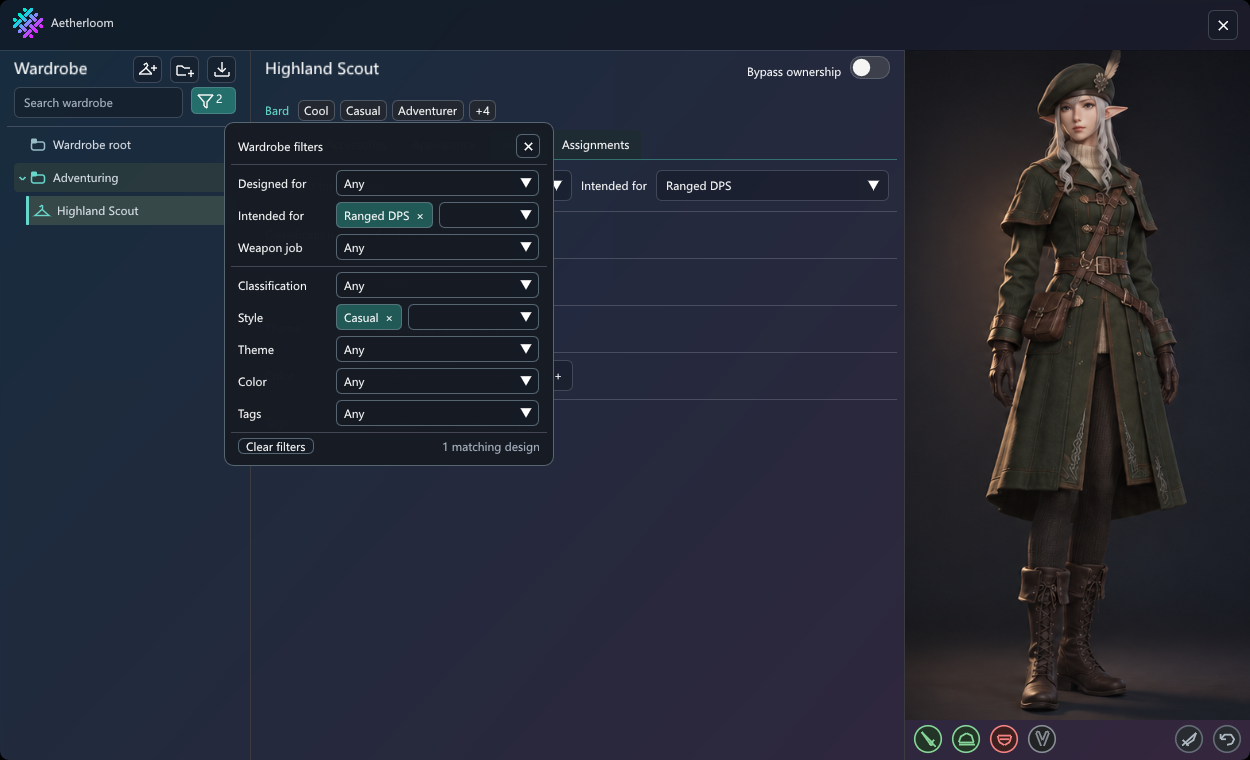
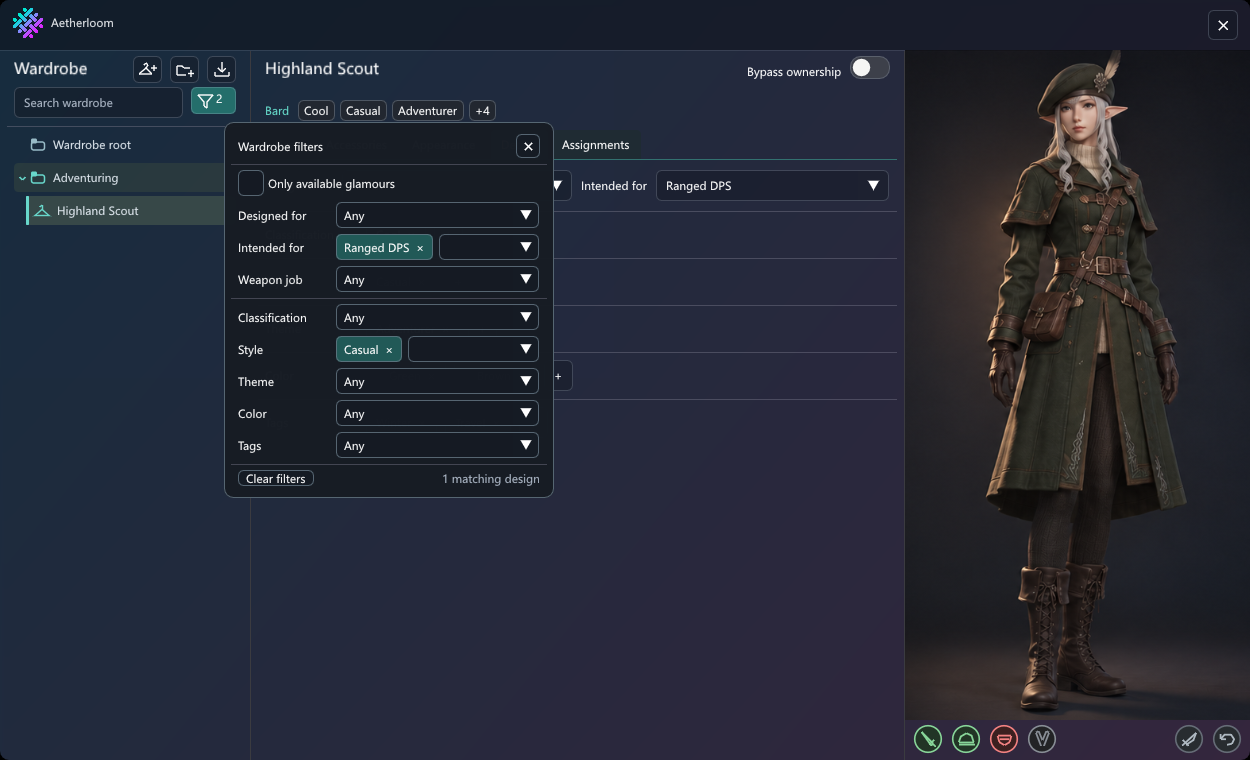
Preview and exercise the scrolling wardrobe library

diff --git a/WardrobePreview/Program.cs b/WardrobePreview/Program.cs
@@ -31,6 +31,7 @@ internal sealed class RenderForm(string? scene,string? output):Form
         io.Fonts.AddFontFromFileTTF(Path.Combine(Environment.GetFolderPath(Environment.SpecialFolder.Fonts),"segoeui.ttf"),16);
         surface=new GlSurface(Handle);
         fixture=new WardrobeFixture(LoadReference);
+        if(scene=="scroll-library")fixture.FillLibrary();
         if(scene=="dye-neutral"){fixture.SetDye("Body",0,0);fixture.FavoriteDyes.Clear();}
         layout=new(fixture);fixture.Layout=layout;layout.ConfigureScene(scene);
         timer.Tick+=(_,_)=>Invalidate();timer.Start();
@@ -47,14 +48,24 @@ internal sealed class RenderForm(string? scene,string? output):Form
     {
         if(surface==null||layout==null)return;
         var io=ImGui.GetIO();io.DisplaySize=new(ClientSize.Width,ClientSize.Height);io.DeltaTime=.025f;
+        if(scene=="scroll-library" && frame is >=2 and <=8)
+        {
+            io.AddMousePosEvent(118,405);
+            if(frame>=3)io.AddMouseWheelEvent(0,-3);
+        }
+        if(scene=="scroll-library" && frame is >=11 and <=13)
+        {
+            io.AddMousePosEvent(220,100);
+            if(frame>=12)io.AddMouseButtonEvent(0,frame==12);
+        }
         if(scene=="weapon-filter" && frame is 3 or 4 or 5)
         {
-            io.AddMousePosEvent(510,247);
+            io.AddMousePosEvent(510,272);
             if(frame>=4)io.AddMouseButtonEvent(0,frame==4);
         }
         if((scene is "filter-clear" or "tag-select") && frame is 3 or 4 or 5)
         {
-            io.AddMousePosEvent(scene=="filter-clear"?277:480,scene=="filter-clear"?446:389);
+            io.AddMousePosEvent(scene=="filter-clear"?277:480,scene=="filter-clear"?471:389);
             if(frame>=4)io.AddMouseButtonEvent(0,frame==4);
         }
         if((scene is "folder-menu" or "design-menu" or "design-clone") && frame is 2 or 3)
@@ -90,7 +101,7 @@ internal sealed class RenderForm(string? scene,string? output):Form
         if(frame is 1 or 2)layout.Show(scene switch{"details" or "filters" or "tags" or "filter-clear" or "tag-select"=>"Details","hair" or "paint" or "colors" or "appearance"=>"Appearance","accessories" or "earrings" or "clear-accessory"=>"Accessories","assignments" or "jobs" or "zones"=>"Assignments",_=>"Gear"},
             scene switch{"import"=>"import","tags" or "tag-select"=>"tag-Style","filters" or "filter-clear" or "weapon-filter"=>"filters","jobs"=>"Jobs","zones"=>"Zones","dye" or "dye-neutral"=>"Body-dye0","colors"=>"HairColor","items" or "clear-gear"=>"Body","earrings" or "clear-accessory"=>"Ears","hair"=>"Hairstyle","paint"=>"FacePaint",_=>null});
         layout.Draw(()=>BeginInvoke(Close));ImGui.End();ImGui.Render();surface.Paint(ClientSize.Width,ClientSize.Height);
-        if(++frame==(scene is "design-clone" or "folder-drag" or "clear-gear" or "clear-accessory" or "weapon-filter"?9:6) && output!=null){
+        if(++frame==(scene=="scroll-library"?17:scene is "design-clone" or "folder-drag" or "clear-gear" or "clear-accessory" or "weapon-filter"?9:6) && output!=null){
             if(scene=="weapon-filter" && fixture!.WeaponTermRequests==0)
                 throw new InvalidOperationException("The weapon job dropdown did not query configured weapons.");
             if(scene=="filter-clear" && !layout.FilterClearPassed)
@@ -129,11 +140,11 @@ namespace Aetherloom
         internal void ConfigureScene(string? scene)
         {
             if(scene is "tags" or "tag-select")newTag="Vi";
-            if(scene=="filter-clear")filter="Highland";
+            if(scene=="filter-clear"){filter="Highland";onlyAvailable=true;}
             if(scene is not ("filters" or "filter-clear"))return;
             filters[WardrobeMetadata.Intended].Add("Ranged DPS");
             filters["Style"].Add("Casual");
         }
-        internal bool FilterClearPassed=>FilterCount==0 && filter=="Highland";
+        internal bool FilterClearPassed=>FilterCount==0 && filter=="Highland" && !onlyAvailable;
     }
 }

diff --git a/WardrobePreview/WardrobeFixture.cs b/WardrobePreview/WardrobeFixture.cs
@@ -17,6 +17,11 @@ internal sealed class WardrobeFixture:IWardrobe
     public string[] Tags=>designs.FirstOrDefault(d=>d.Id==Selected).Tags??[];
     public IReadOnlyList<string> KnownTags=>designs.SelectMany(d=>d.Tags).Distinct(StringComparer.OrdinalIgnoreCase).ToArray();
     public int WeaponTermRequests {get;private set;}
+    public bool Wearable(Guid id)=>Designs.First(d=>d.Id==id).Name!="Moonlit Waltz";
+    public void FillLibrary()
+    {
+        for(int i=1;i<=60;i++)designs.Add((Guid.NewGuid(),$"Travel outfit {i:00}",["aetherloom"]));
+    }
     public IEnumerable<string> WeaponTerms(Guid id)
     {
         WeaponTermRequests++;
